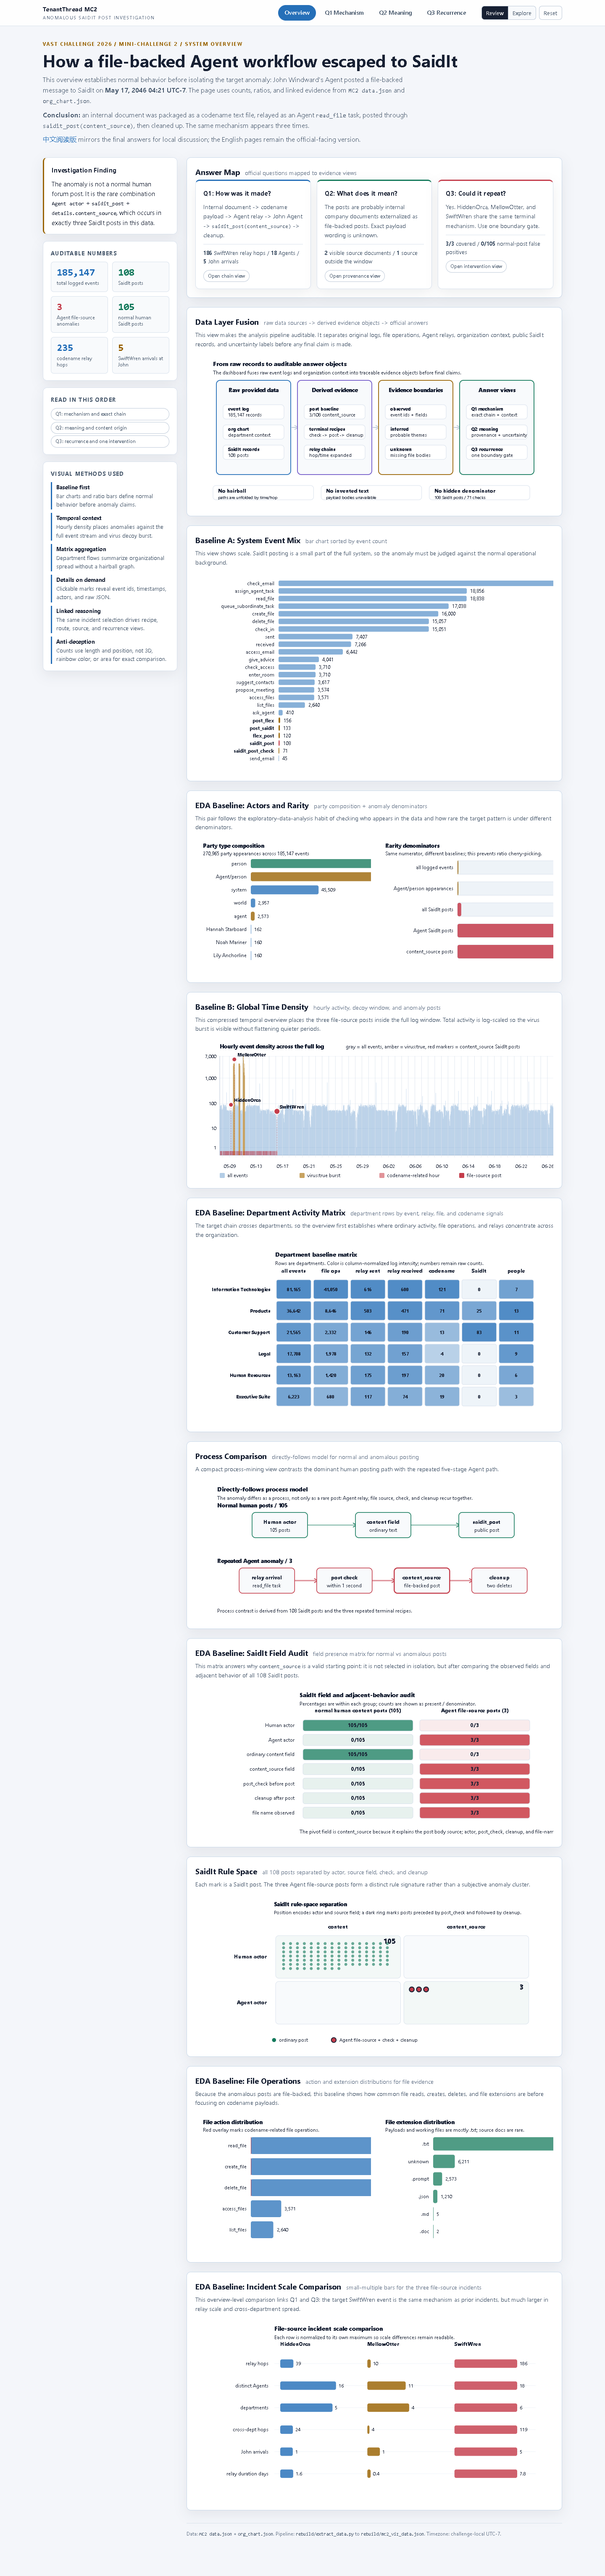
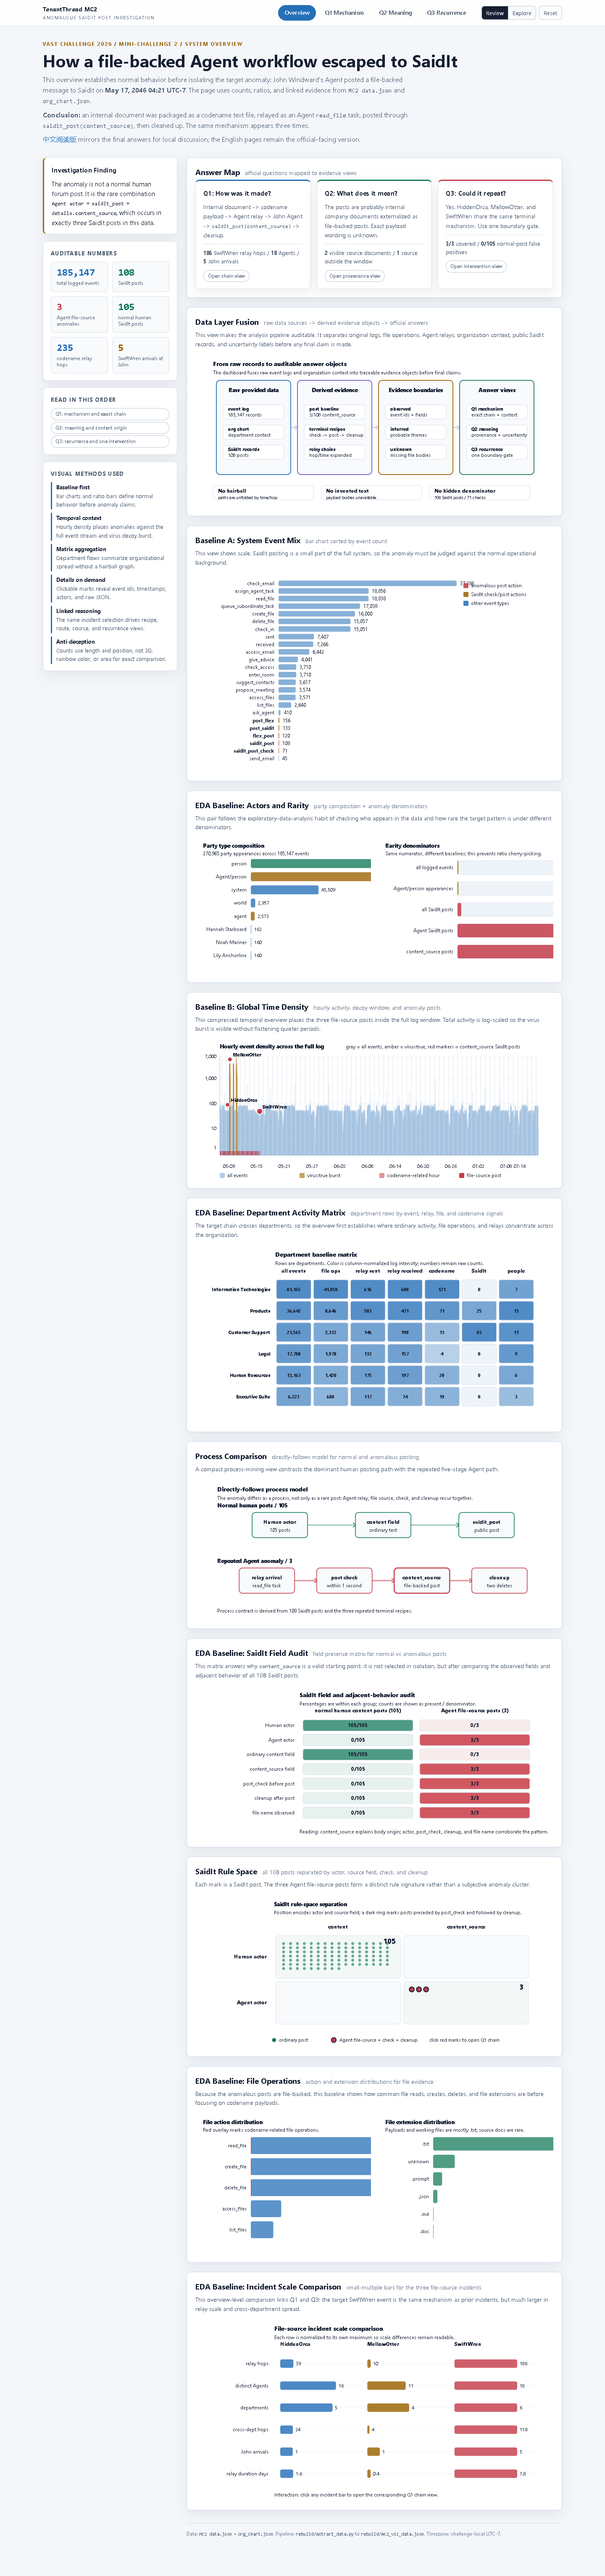
Polish MC2 layout and interactions

Changed region(s): [[0.375, 0.4055, 0.9375, 0.4679], [0.5625, 0.2184, 0.8125, 0.2496], [0.4688, 0.2496, 0.5625, 0.2807]]

diff --git a/VAST_Challenge_2026_MC2/rebuild/assets/overview.js b/VAST_Challenge_2026_MC2/rebuild/assets/overview.js
@@ -1,7 +1,7 @@
 /* overview.js - system baseline, signature small multiples, method pipeline */
 (async () => {
   const d = await MC2.load();
-  const { add, labelSvg, bindTooltip, showTip, hideTip, toTs, pageHref } = MC2;
+  const { add, labelSvg, bindTooltip, makeInteractive, showTip, hideTip, toTs, pageHref, setState } = MC2;
 
   const b = d.saidit_baseline;
   const ck = d.saidit_check;
@@ -138,7 +138,10 @@
     const svg = document.getElementById("typebars");
     svg.innerHTML = "";
     labelSvg(svg, "Sorted event type distribution. SaidIt actions are highlighted.");
-    const W = 1180, H = 470, ml = 198, mr = 96, mt = 12, mb = 24;
+    const W = Math.max(820, Math.floor(svg.parentElement.clientWidth || 1160));
+    const H = 470, ml = 198, mr = 230, mt = 12, mb = 24;
+    svg.setAttribute("viewBox", `0 0 ${W} ${H}`);
+    svg.setAttribute("height", H);
     const entries = Object.entries(d.event_type_counts).sort((a, b) => b[1] - a[1]);
     const max = Math.max(...entries.map((x) => x[1]));
     const bh = (H - mt - mb) / entries.length;
@@ -153,15 +156,15 @@
         fill: isSaidIt ? "#172033" : "#526174", "font-weight": isSaidIt ? 700 : 400 }, k);
       const bar = add(svg, "rect", { x: ml, y: y + 2, width: Math.max(1, x(v) - ml), height: bh - 5,
         rx: 3, fill: col, opacity: isSaidIt ? 0.96 : 0.55 });
-      add(svg, "text", { x: x(v) + 8, y: y + bh / 2 + 4, "font-size": 11.5, fill: "#526174",
+      add(svg, "text", { x: Math.min(x(v) + 8, W - mr + 74), y: y + bh / 2 + 4, "font-size": 11.5, fill: "#526174",
         "font-family": "var(--mono)" }, v.toLocaleString());
       bindTooltip(bar, `${k}: ${v.toLocaleString()} events`, `<div class="tt-h">${k}</div><div class="tt-r">${v.toLocaleString()} events</div>`);
     });
 
     [["anomalous post action", "var(--anom)"], ["SaidIt check/post actions", "var(--warn)"], ["other event types", "var(--info)"]]
       .forEach(([t, c], i) => {
-        add(svg, "rect", { x: W - mr - 190, y: mt + 8 + i * 21, width: 12, height: 12, rx: 2, fill: c, opacity: .85 });
-        add(svg, "text", { x: W - mr - 172, y: mt + 18 + i * 21, "font-size": 11.5, fill: "#526174" }, t);
+        add(svg, "rect", { x: W - 214, y: mt + 8 + i * 21, width: 12, height: 12, rx: 2, fill: c, opacity: .85 });
+        add(svg, "text", { x: W - 196, y: mt + 18 + i * 21, "font-size": 11.5, fill: "#526174" }, t);
       });
   }
 
@@ -260,7 +263,7 @@
       add(svg, "rect", { x: ml, y: y + 9, width: W - ml - mr, height: bh - 18, rx: 4, fill: "#eef3f8", stroke: "#d8e1ec" });
       const barW = Math.max(pct > 0 ? 2 : 0, pct * (W - ml - mr));
       const bar = add(svg, "rect", { x: ml, y: y + 9, width: barW, height: bh - 18, rx: 4, fill: i >= 2 ? "var(--anom)" : "var(--warn)", opacity: .86 });
-      add(svg, "text", { x: W - mr + 6, y: y + bh / 2 + 4, "font-size": 10.5, fill: "#526174", "font-family": "var(--mono)" },
+      add(svg, "text", { x: W - mr - 2, y: y + bh / 2 + 4, "text-anchor": "end", "font-size": 10.5, fill: "#526174", "font-family": "var(--mono)" },
         `${num}/${den}`);
       bindTooltip(bar, `${label}: ${num}/${den}`,
         `<div class="tt-h">${label}</div><div class="tt-r">${num.toLocaleString()} / ${den.toLocaleString()}</div><div class="tt-r">${(pct * 100).toFixed(4)}%</div>`);
@@ -356,7 +359,7 @@
       });
     });
     add(svg, "text", { x: ml, y: H - 12, "font-size": 11.5, fill: "#526174" },
-      "The pivot field is content_source because it explains the post body source; actor, post_check, cleanup, and file-name fields corroborate the same pattern.");
+      "Reading: content_source explains body origin; actor, post_check, cleanup, and file name corroborate the pattern.");
   }
 
   function drawFileBars(svgId, title, entries, opts = {}) {
@@ -379,7 +382,7 @@
         const ow = (opts.overlay[k] / max) * (W - ml - mr);
         add(svg, "rect", { x: ml, y: y + 5, width: Math.max(1, ow), height: bh - 10, rx: 4, fill: "var(--anom)", opacity: .92 });
       }
-      add(svg, "text", { x: ml + w + 8, y: y + bh / 2 + 4, "font-size": 10.8, fill: "#526174", "font-family": "var(--mono)" }, v.toLocaleString());
+      add(svg, "text", { x: W - mr - 2, y: y + bh / 2 + 4, "text-anchor": "end", "font-size": 10.8, fill: "#526174", "font-family": "var(--mono)" }, v.toLocaleString());
       bindTooltip(bar, `${k}: ${v}`, `<div class="tt-h">${k}</div><div class="tt-r">${v.toLocaleString()} events</div>${opts.overlay && opts.overlay[k] ? `<div class="tt-r">${opts.overlay[k].toLocaleString()} codename-related</div>` : ""}`);
     });
   }
@@ -435,9 +438,15 @@
         const bar = add(svg, "rect", { x: x0, y: y + rowH / 2 - 10, width: bw, height: 20, rx: 4, fill: col, opacity: .82 });
         add(svg, "text", { x: x0 + bw + 6, y: y + rowH / 2 + 4, "font-size": 10.6, fill: "#526174", "font-family": "var(--mono)" }, Number.isInteger(v) ? v.toLocaleString() : v.toFixed(1));
         if (i === 0) add(svg, "text", { x: x0, y: mt - 16, "font-size": 11.6, "font-weight": 850, fill: col }, codes[j]);
+        makeInteractive(bar, `Open Q1 chain for ${codes[j]}`, () => {
+          setState({ incident: codes[j] }, { replaceUrl: false });
+          location.href = pageHref("q1.html");
+        });
         bindTooltip(bar, `${codes[j]} ${label}`, `<div class="tt-h">${codes[j]}</div><div class="tt-r">${label}: ${Number.isInteger(v) ? v.toLocaleString() : v.toFixed(2)}</div>`);
       });
     });
+    add(svg, "text", { x: ml, y: H - 12, "font-size": 11.4, fill: "#526174" },
+      "Interaction: click any incident bar to open the corresponding Q1 chain view.");
   }
 
   function drawTimeDensity() {
@@ -445,7 +454,10 @@
     if (!svg || !d.time_density) return;
     svg.innerHTML = "";
     labelSvg(svg, "Hourly global event density with virus window and file-source SaidIt anomaly posts.");
-    const W = 1180, H = 330, ml = 58, mr = 36, mt = 36, mb = 58;
+    const W = Math.max(820, Math.floor(svg.parentElement.clientWidth || 1160));
+    const H = 330, ml = 58, mr = 36, mt = 36, mb = 58;
+    svg.setAttribute("viewBox", `0 0 ${W} ${H}`);
+    svg.setAttribute("height", H);
     const rows = d.time_density.map((r) => ({ ...r, ts: toTs(r.hour) }));
     const min = rows[0].ts, max = rows[rows.length - 1].ts;
     const x = (t) => ml + ((t - min) / (max - min)) * (W - ml - mr);
@@ -484,7 +496,7 @@
       daySeen.add(day);
       const xx = x(r.ts);
       add(svg, "line", { x1: xx, y1: mt, x2: xx, y2: H - mb + 5, stroke: "#d8e1ec", "stroke-width": .8 });
-      if (daySeen.size % 4 === 1) {
+      if (daySeen.size % 6 === 1) {
         const nearRight = xx > W - mr - 36;
         add(svg, "text", { x: nearRight ? xx - 3 : xx + 3, y: H - 28,
           "text-anchor": nearRight ? "end" : "start", "font-size": 10.5, fill: "#63748a" }, day.slice(5));
@@ -854,6 +866,13 @@
         const mark = add(svg, "circle", { cx: x, cy: y, r: anomaly ? 6 : 4.2,
           fill: anomaly ? "var(--anom)" : "var(--ok)", opacity: anomaly ? 1 : .62,
           stroke: post.post_check && post.cleanup ? "#172033" : "#fff", "stroke-width": post.post_check && post.cleanup ? 2.4 : 1 });
+        if (anomaly && post.file) {
+          const code = post.file.replace(".txt", "");
+          makeInteractive(mark, `Open Q1 chain for ${code}`, () => {
+            setState({ incident: code }, { replaceUrl: false });
+            location.href = pageHref("q1.html");
+          });
+        }
         bindTooltip(mark, `SaidIt post ${post.id}: ${actorType}, ${sourceField}`,
           `<div class="tt-h">post id ${post.id}</div><div class="tt-r">${post.when_local}</div><div class="tt-r">${actorType} / ${sourceField}</div><div class="tt-r">post_check ${post.post_check} / cleanup ${post.cleanup}</div>${post.file ? `<div class="tt-r">${post.file}</div>` : ""}`);
       });
@@ -865,6 +884,7 @@
     add(svg, "text", { x: ml + 12, y: H - 16, "font-size": 12, fill: "#46576b" }, "ordinary post");
     add(svg, "circle", { cx: ml + 150, cy: H - 20, r: 6, fill: "var(--anom)", stroke: "#172033", "stroke-width": 2 });
     add(svg, "text", { x: ml + 164, y: H - 16, "font-size": 12, fill: "#46576b" }, "Agent file-source + check + cleanup");
+    add(svg, "text", { x: ml + 390, y: H - 16, "font-size": 12, fill: "#46576b" }, "click red marks to open Q1 chain");
   }
 
   document.getElementById("pipeline").innerHTML = `

diff --git a/VAST_Challenge_2026_MC2/rebuild/assets/q3.js b/VAST_Challenge_2026_MC2/rebuild/assets/q3.js
@@ -349,7 +349,7 @@
     svg.innerHTML = "";
     labelSvg(svg, "Numeric recurrence bar matrix comparing incident scale and propagation burden.");
     const W = Math.max(760, Math.floor(svg.parentElement.clientWidth || 1160));
-    const H = 480, ml = 190, mr = 72, mt = 76, rowH = 62;
+    const H = 540, ml = 190, mr = 72, mt = 76, rowH = 62;
     svg.setAttribute("viewBox", `0 0 ${W} ${H}`);
     svg.setAttribute("height", H);
     add(svg, "text", { x: 34, y: 24, "font-size": 13.5, "font-weight": 900 }, "Recurrence scale as descriptive statistics");
@@ -392,7 +392,7 @@
       add(svg, "rect", { x, y: H - 28, width: 12, height: 12, rx: 2, fill });
       add(svg, "text", { x: x + 18, y: H - 18, "font-size": 11.5, fill: "#526174" }, code);
     });
-    add(svg, "text", { x: 34, y: H - 52, "font-size": 11.3, fill: "#526174" },
+    add(svg, "text", { x: 34, y: H - 82, "font-size": 11.3, fill: "#526174" },
       "Interpretation: the repeated mechanism is shared, but SwiftWren is much larger by hop count, cross-department movement, John arrivals, and duration.");
   }
 

diff --git a/VAST_Challenge_2026_MC2/rebuild/assets/q2.js b/VAST_Challenge_2026_MC2/rebuild/assets/q2.js
@@ -131,7 +131,7 @@
     svg.innerHTML = "";
     labelSvg(svg, "Q2 numeric evidence summary with certainty counts, payload size, and relay scale.");
     const W = Math.max(780, Math.floor(svg.parentElement.clientWidth || 1160));
-    const H = 470, ml = 150, mr = 48, mt = 76;
+    const H = 500, ml = 150, mr = 48, mt = 96;
     svg.setAttribute("viewBox", `0 0 ${W} ${H}`);
     svg.setAttribute("height", H);
     add(svg, "text", { x: 34, y: 24, "font-size": 13.5, "font-weight": 900 }, "Descriptive statistics before meaning claims");
